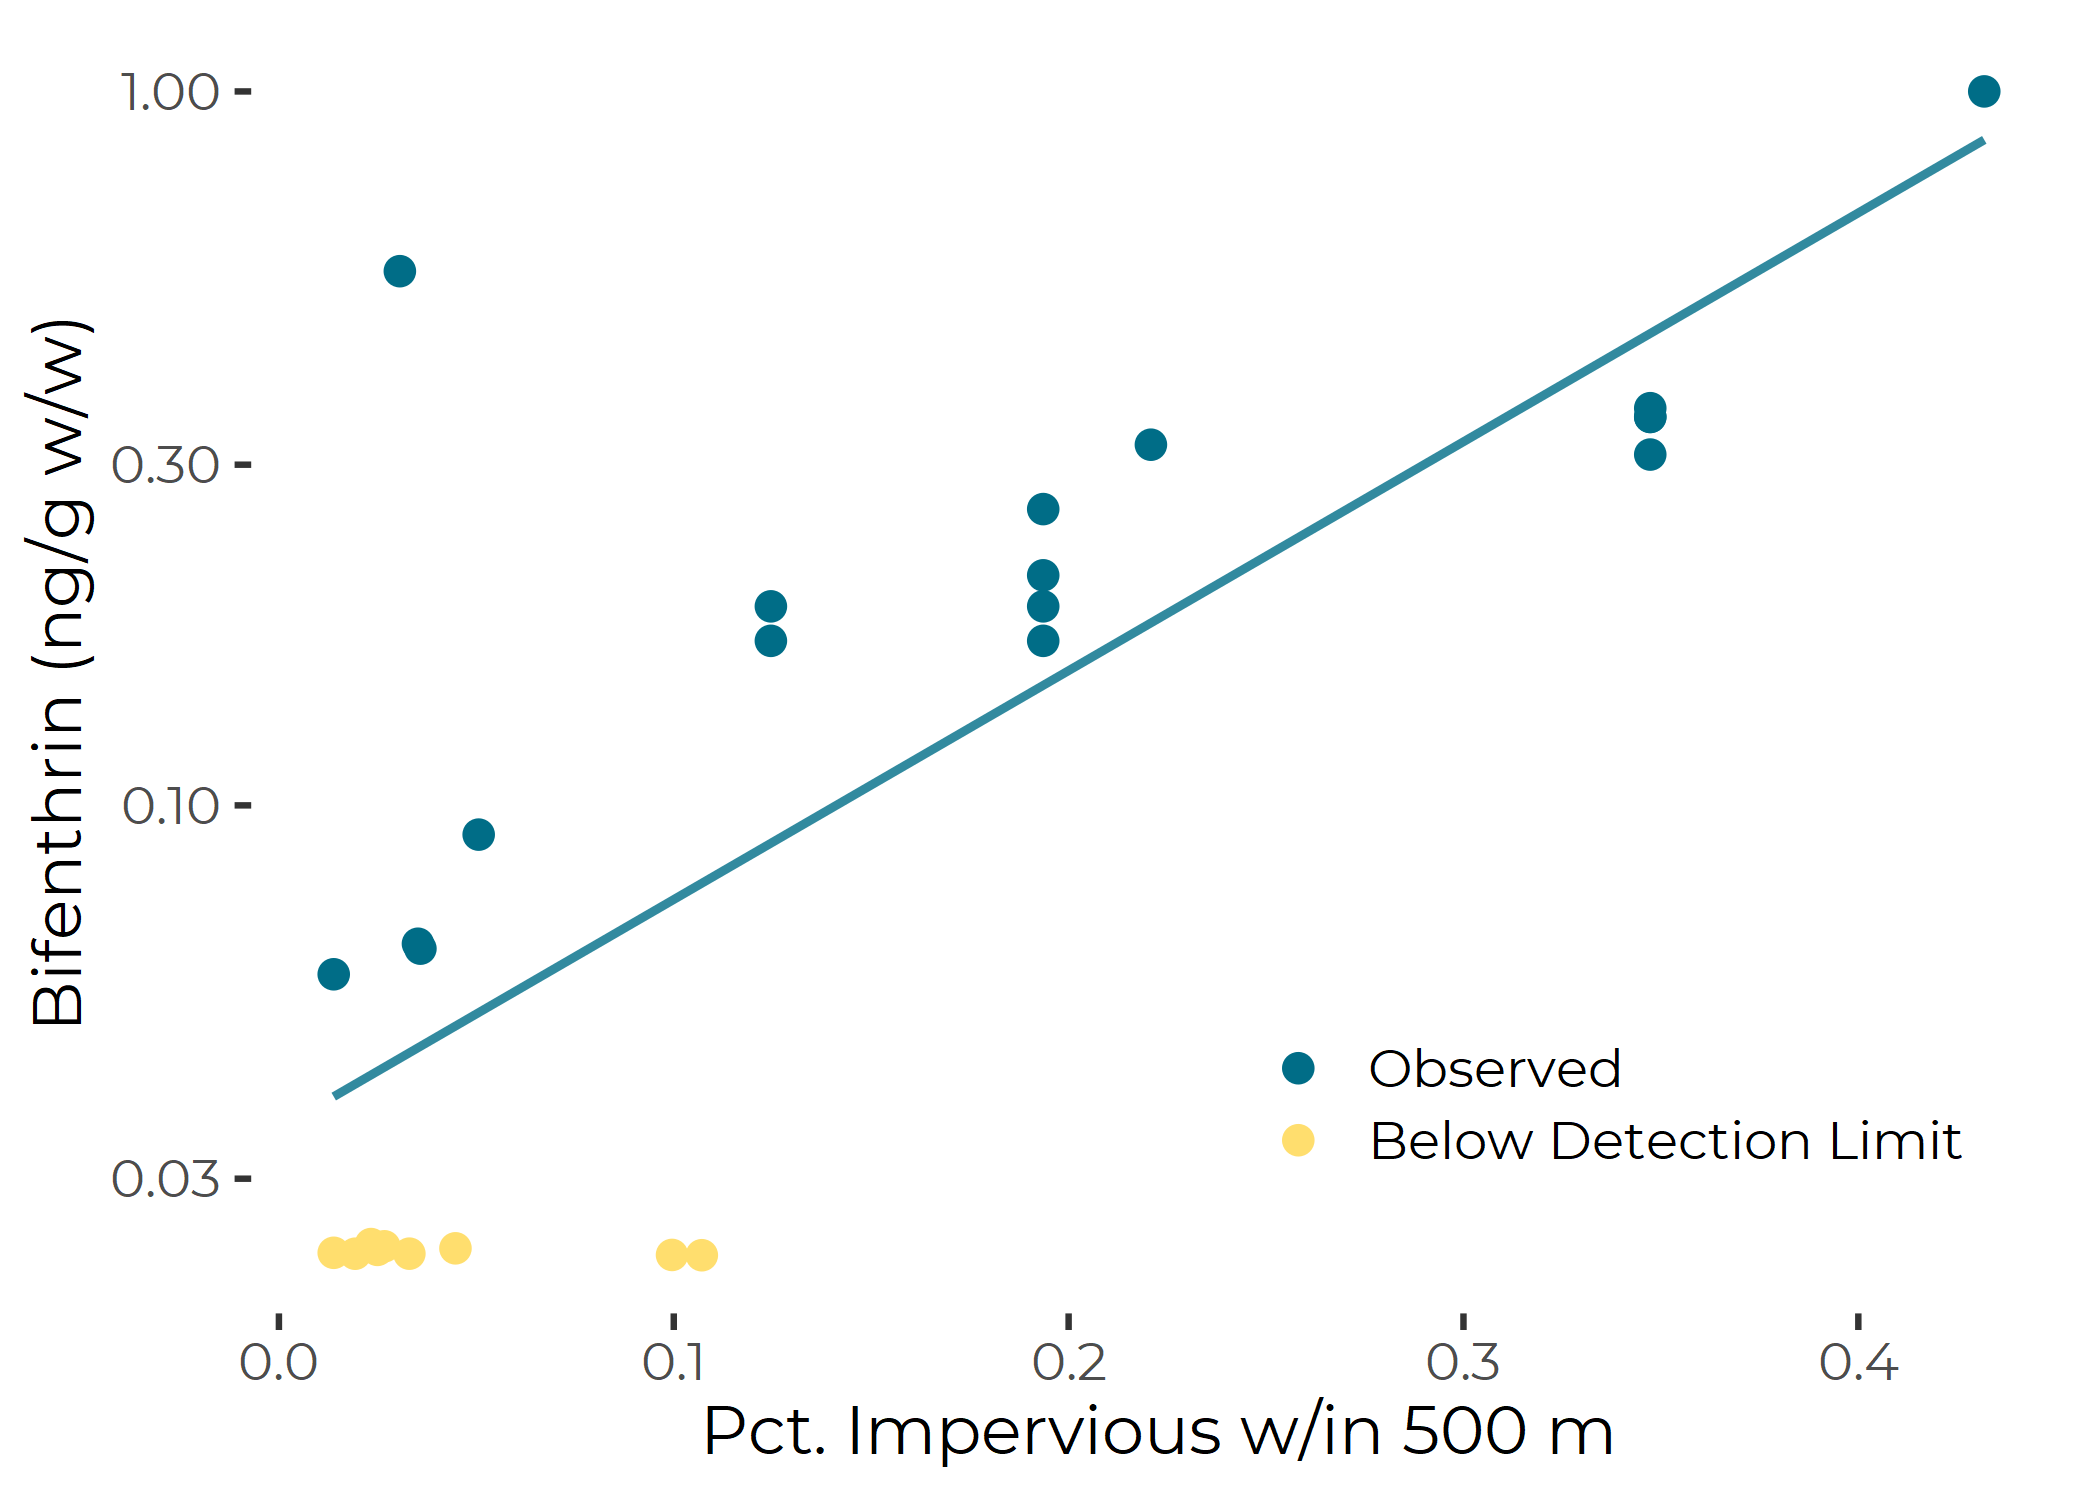
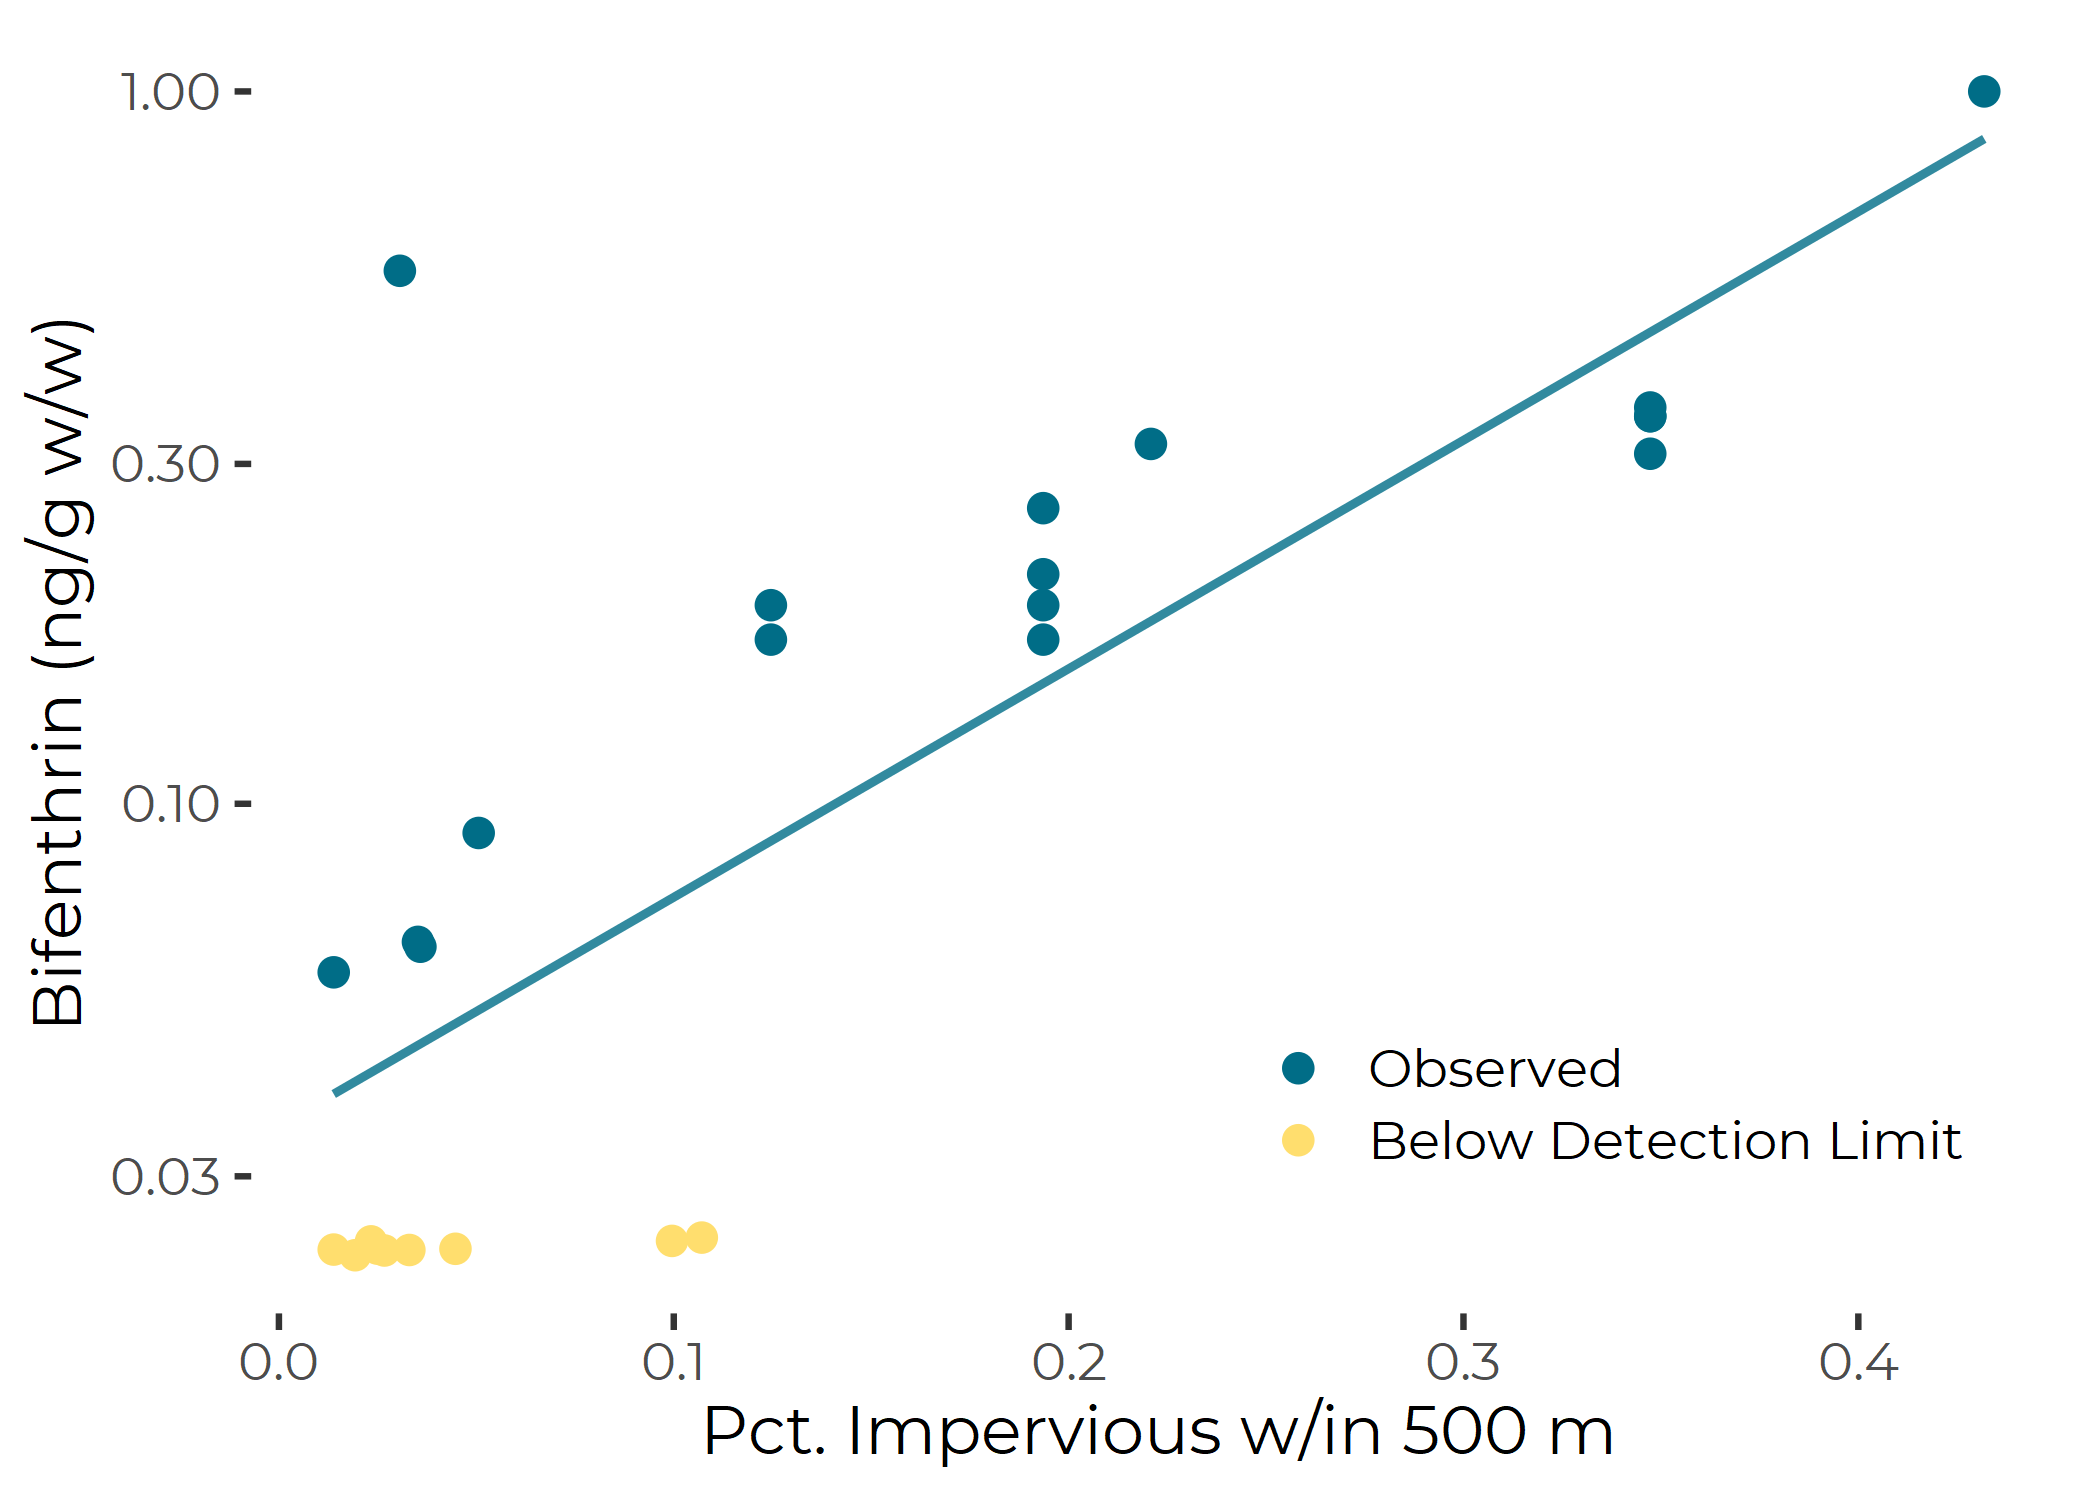
Reknit Github markdown documents

diff --git a/Graphics/Pesticide_Graphics.md b/Graphics/Pesticide_Graphics.md
@@ -1,4 +1,4 @@
-Load Pesticides Data And Report out SUmamry Bifenthrin Data
+Load Pesticides Data And Report out Summary Bifenthrin Data
 ================
 Curtis C. Bohlen, Casco Bay Estuary Partnership
 
@@ -42,14 +42,14 @@ impervious surfaces (as a rough measure of urbanization).
 library(tidyverse)
 ```
 
-    ## -- Attaching packages --------------------------------------------------------------------------------------------------- tidyverse 1.3.0 --
+    ## -- Attaching packages --------------------------------------- tidyverse 1.3.0 --
 
     ## v ggplot2 3.3.2     v purrr   0.3.4
     ## v tibble  3.0.3     v dplyr   1.0.0
     ## v tidyr   1.1.0     v stringr 1.4.0
     ## v readr   1.3.1     v forcats 0.5.0
 
-    ## -- Conflicts ------------------------------------------------------------------------------------------------------ tidyverse_conflicts() --
+    ## -- Conflicts ------------------------------------------ tidyverse_conflicts() --
     ## x dplyr::filter() masks stats::filter()
     ## x dplyr::lag()    masks stats::lag()
 
@@ -179,19 +179,19 @@ summary(the_lm)
     ## 
     ## Residuals:
     ##      Min       1Q   Median       3Q      Max 
-    ## -0.13937 -0.08230 -0.02154  0.00410  0.50627 
+    ## -0.13943 -0.08234 -0.02162  0.00407  0.50624 
     ## 
     ## Coefficients:
     ##             Estimate Std. Error t value Pr(>|t|)    
-    ## (Intercept)  0.01546    0.04397   0.352    0.728    
-    ## pct500       1.24937    0.23227   5.379  1.6e-05 ***
+    ## (Intercept)  0.01549    0.04395   0.352    0.728    
+    ## pct500       1.24947    0.23217   5.382 1.59e-05 ***
     ## ---
     ## Signif. codes:  0 '***' 0.001 '**' 0.01 '*' 0.05 '.' 0.1 ' ' 1
     ## 
     ## Residual standard error: 0.1517 on 24 degrees of freedom
     ##   (4 observations deleted due to missingness)
-    ## Multiple R-squared:  0.5466, Adjusted R-squared:  0.5277 
-    ## F-statistic: 28.93 on 1 and 24 DF,  p-value: 1.597e-05
+    ## Multiple R-squared:  0.5468, Adjusted R-squared:  0.528 
+    ## F-statistic: 28.96 on 1 and 24 DF,  p-value: 1.587e-05
 
 ``` r
 the_lm <- lm(log10(Bifenthrin_ML)~pct500, data = conc_data)
@@ -203,20 +203,20 @@ summary(the_lm)
     ## lm(formula = log10(Bifenthrin_ML) ~ pct500, data = conc_data)
     ## 
     ## Residuals:
-    ##      Min       1Q   Median       3Q      Max 
-    ## -0.52101 -0.23729 -0.02116  0.16702  1.10240 
+    ##     Min      1Q  Median      3Q     Max 
+    ## -0.5005 -0.2420 -0.0221  0.1664  1.1019 
     ## 
     ## Coefficients:
     ##             Estimate Std. Error t value Pr(>|t|)    
-    ## (Intercept) -1.45240    0.09814 -14.800 1.45e-13 ***
-    ## pct500       3.20571    0.51837   6.184 2.17e-06 ***
+    ## (Intercept) -1.45193    0.09764 -14.870 1.31e-13 ***
+    ## pct500       3.20747    0.51578   6.219 2.00e-06 ***
     ## ---
     ## Signif. codes:  0 '***' 0.001 '**' 0.01 '*' 0.05 '.' 0.1 ' ' 1
     ## 
-    ## Residual standard error: 0.3386 on 24 degrees of freedom
+    ## Residual standard error: 0.3369 on 24 degrees of freedom
     ##   (4 observations deleted due to missingness)
-    ## Multiple R-squared:  0.6144, Adjusted R-squared:  0.5984 
-    ## F-statistic: 38.24 on 1 and 24 DF,  p-value: 2.17e-06
+    ## Multiple R-squared:  0.6171, Adjusted R-squared:  0.6011 
+    ## F-statistic: 38.67 on 1 and 24 DF,  p-value: 1.995e-06
 
 # Alternate Graphic
 

diff --git a/Analysis/Stormwater_vs_Benchmarks.md b/Analysis/Stormwater_vs_Benchmarks.md
@@ -1,4 +1,4 @@
-Load Pesticides Data And Report out SUmamry Bifenthrin Data
+Load Pesticides Data And Report out Summary Bifenthrin Data
 ================
 Curtis C. Bohlen, Casco Bay Estuary Partnership
 
@@ -38,14 +38,14 @@ have relatively short lifespans in the aquatic environment.
 library(tidyverse)
 ```
 
-    ## -- Attaching packages --------------------------------------------------------------------------------------------------- tidyverse 1.3.0 --
+    ## -- Attaching packages --------------------------------------- tidyverse 1.3.0 --
 
     ## v ggplot2 3.3.2     v purrr   0.3.4
     ## v tibble  3.0.3     v dplyr   1.0.0
     ## v tidyr   1.1.0     v stringr 1.4.0
     ## v readr   1.3.1     v forcats 0.5.0
 
-    ## -- Conflicts ------------------------------------------------------------------------------------------------------ tidyverse_conflicts() --
+    ## -- Conflicts ------------------------------------------ tidyverse_conflicts() --
     ## x dplyr::filter() masks stats::filter()
     ## x dplyr::lag()    masks stats::lag()
 
